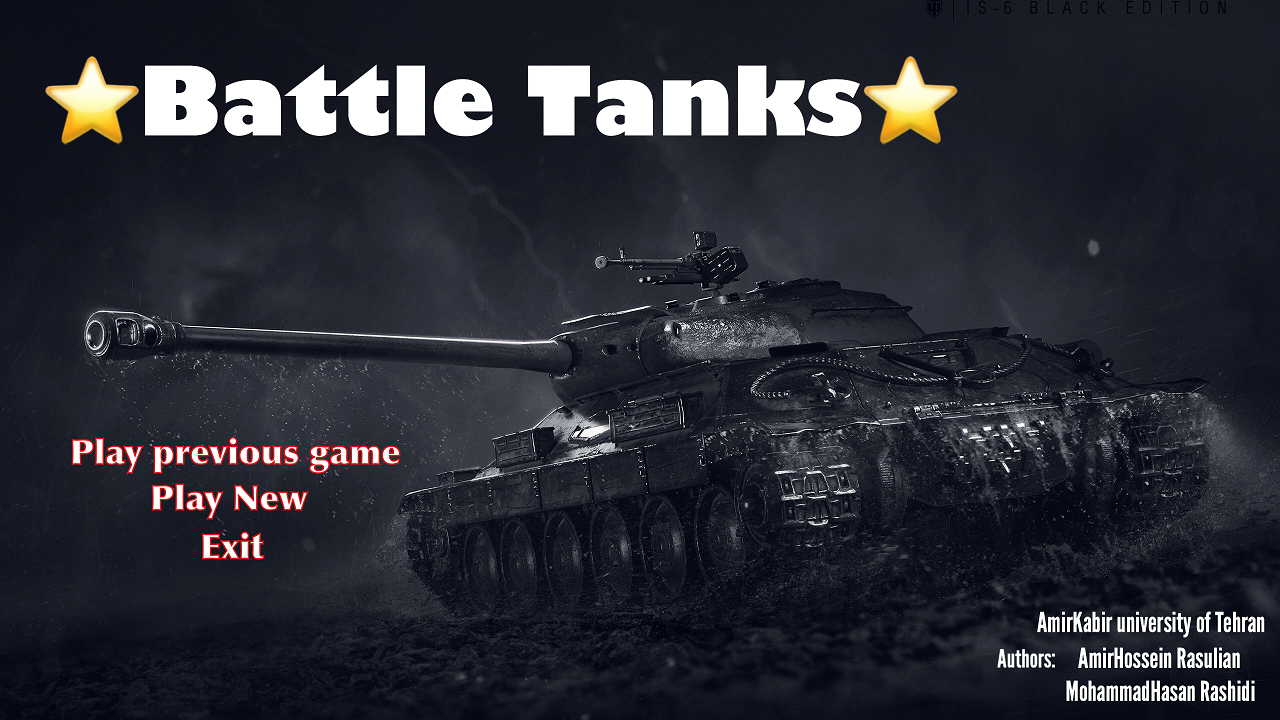
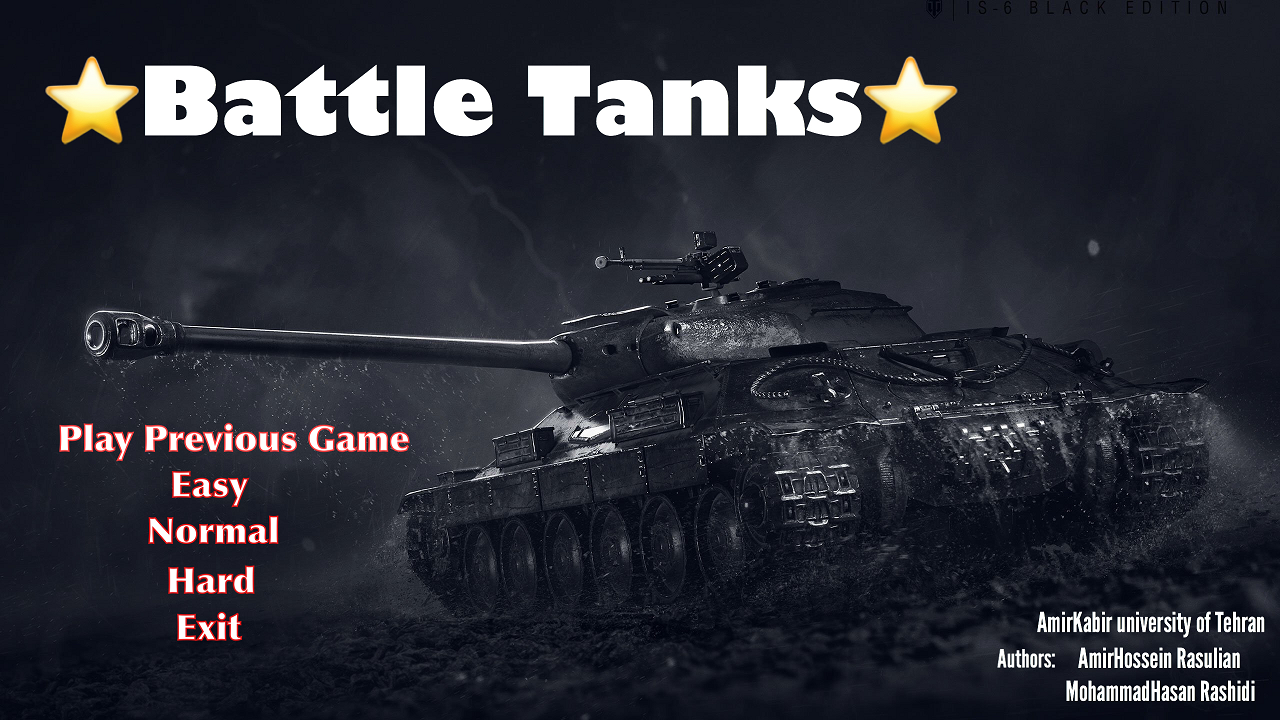
create the moving of tanks and improving the menu

Changed region(s): [[0.0312, 0.5806, 0.3125, 0.825], [0.125, 0.8556, 0.1875, 0.9167]]

diff --git a/src/GameState.java b/src/GameState.java
@@ -44,8 +44,7 @@ public class GameState {
     private AffineTransform affineTransform;
 
     private boolean menuSoundFinished;
-
-    private static ArrayList<Rectangle> obstacles = new ArrayList<Rectangle>();
+    private boolean enemysAreCreated ;
 
     public GameState() {
         //
@@ -53,40 +52,9 @@ public class GameState {
         //
         //create myTank
         myTank = new MyTank(100, 100, 0);
+        enemysAreCreated = false;
         //create enemy Tanks
         enemyTanks = new ArrayList<>();
-        enemyTanks.add(new EnemyFixedTank(1100, 0, 0, myTank.getObstacleLocation()));
-        enemyTanks.add(new EnemyFixedTank(3620, 300, 0, myTank.getObstacleLocation()));
-//        enemyTanks.add(new EnemyFixedTank(1000, 1040, 0, myTank.getObstacleLocation()));
-        enemyTanks.add(new EnemyFixedTank(150, 1550, 0, myTank.getObstacleLocation()));
-        enemyTanks.add(new EnemyFixedTank(2700, 1850, 0, myTank.getObstacleLocation()));
-        enemyTanks.add(new EnemyMovingTank(500, 100, 0, myTank.getObstacleLocation()));
-        enemyTanks.add(new EnemyMovingTank(2000, 400, 0, myTank.getObstacleLocation()));
-        enemyTanks.add(new EnemyMovingTank(3000, 100, 0, myTank.getObstacleLocation()));
-//        enemyTanks.add(new EnemyMovingTank(2800, 1200, 0, myTank.getObstacleLocation()));
-//        enemyTanks.add(new EnemyMovingTank(400, 1200, 0, myTank.getObstacleLocation()));
-        enemyTanks.add(new EnemyMovingTank(1000, 1800, 0, myTank.getObstacleLocation()));
-//        enemyTanks.add(new EnemyMovingTank(3000, 1800, 0, myTank.getObstacleLocation()));
-        enemyTanks.add(new EnemyMovingTank2(800, 500, 0, myTank.getObstacleLocation()));
-//        enemyTanks.add(new EnemyMovingTank2(3400, 1200, 0, myTank.getObstacleLocation()));
-//        enemyTanks.add(new EnemyMovingTank2(2200, 1000, 0, myTank.getObstacleLocation()));
-        enemyTanks.add(new EnemyMovingTank2(800, 1600, 0, myTank.getObstacleLocation()));
-//        enemyTanks.add(new EnemyMovingTank2(1400, 1700, 0, myTank.getObstacleLocation()));
-//        enemyTanks.add(new EnemyMovingTank2(1700, 1900, 0, myTank.getObstacleLocation()));
-        enemyTanks.add(new EnemyMovingTank3(1500, 500, 0, myTank.getObstacleLocation()));
-//        enemyTanks.add(new EnemyMovingTank3(2700, 500, 0, myTank.getObstacleLocation()));
-//        enemyTanks.add(new EnemyMovingTank3(1500, 1200, 0, myTank.getObstacleLocation()));
-        enemyTanks.add(new EnemyMovingTank3(1400, 900, 0, myTank.getObstacleLocation()));
-//        enemyTanks.add(new EnemyMovingTank3(300, 1000, 0, myTank.getObstacleLocation()));
-//        enemyTanks.add(new EnemyMovingTank3(1700, 2000, 0, myTank.getObstacleLocation()));
-        enemyTanks.add(new EnemyMovingTank3(2300, 1600, 0, myTank.getObstacleLocation()));
-//        enemyTanks.add(new EnemyMovingTank3(3200, 1600, 0, myTank.getObstacleLocation()));
-
-        //add enemy tanks to obstacle
-        for (EnemyTank enemyTank :
-                enemyTanks) {
-            GameFrame.obstacles.add(enemyTank);
-        }
         //
         menuIsFinished = false;
         savingIsAvailable = false;
@@ -142,19 +110,19 @@ public class GameState {
                 menuKeyUP = false;
             }
             if (menuKeyDOWN) {
-                if (menuChooserPlace < 3) {
+                if (menuChooserPlace < 5) {
                     SoundPlayer.playSound("select");
                     menuChooserPlace++;
                 }
                 menuKeyDOWN = false;
             }
-            if (menuKeyENTER && menuChooserPlace == 2) {
+            if (menuKeyENTER && (menuChooserPlace == 2 || menuChooserPlace == 3 || menuChooserPlace == 4)) {
                 SoundPlayer.playSound("agree");
                 menuIsFinished = true;
                 SoundPlayer.getStartUp().close();
                 SoundPlayer.playSound("gameSound1");
             }
-            if (menuKeyENTER && menuChooserPlace == 3) {
+            if (menuKeyENTER && menuChooserPlace == 5) {
                 SoundPlayer.playSound("agree");
                 System.exit(0);
             }
@@ -162,11 +130,55 @@ public class GameState {
             if (menuChooserPlace == 1)
                 menuYPosition = 440;
             if (menuChooserPlace == 2)
-                menuYPosition = 485;
+                menuYPosition = 470;
             if (menuChooserPlace == 3)
-                menuYPosition = 530;
+                menuYPosition = 515;
+            if (menuChooserPlace == 4)
+                menuYPosition = 560 ;
+            if (menuChooserPlace == 5)
+                menuYPosition = 605 ;
         } else {
 
+            if (!enemysAreCreated){
+                enemyTanks.add(new EnemyFixedTank(1100, 0, 0, myTank.getObstacleLocation()));
+                enemyTanks.add(new EnemyFixedTank(3620, 300, 0, myTank.getObstacleLocation()));
+                enemyTanks.add(new EnemyFixedTank(2700, 1850, 0, myTank.getObstacleLocation()));
+                enemyTanks.add(new EnemyMovingTank(500, 100, 0, myTank.getObstacleLocation()));
+                enemyTanks.add(new EnemyMovingTank(3000, 100, 0, myTank.getObstacleLocation()));
+                enemyTanks.add(new EnemyMovingTank(400, 1200, 0, myTank.getObstacleLocation()));
+                enemyTanks.add(new EnemyMovingTank(3000, 1800, 0, myTank.getObstacleLocation()));
+                enemyTanks.add(new EnemyMovingTank2(3400, 1200, 0, myTank.getObstacleLocation()));
+                enemyTanks.add(new EnemyMovingTank2(800, 1600, 0, myTank.getObstacleLocation()));
+                enemyTanks.add(new EnemyMovingTank2(1400, 1700, 0, myTank.getObstacleLocation()));
+                enemyTanks.add(new EnemyMovingTank3(1500, 500, 0, myTank.getObstacleLocation()));
+                enemyTanks.add(new EnemyMovingTank3(1400, 900, 0, myTank.getObstacleLocation()));
+                enemyTanks.add(new EnemyMovingTank3(1700, 2000, 0, myTank.getObstacleLocation()));
+                enemyTanks.add(new EnemyMovingTank3(3200, 1600, 0, myTank.getObstacleLocation()));
+                if (menuChooserPlace >= 3)
+                {
+                    enemyTanks.add(new EnemyFixedTank(1000, 1040, 0, myTank.getObstacleLocation()));
+                    enemyTanks.add(new EnemyMovingTank(2000, 400, 0, myTank.getObstacleLocation()));
+                    enemyTanks.add(new EnemyMovingTank(2800, 1200, 0, myTank.getObstacleLocation()));
+                    enemyTanks.add(new EnemyMovingTank2(2200, 1000, 0, myTank.getObstacleLocation()));
+                    enemyTanks.add(new EnemyMovingTank3(2700, 500, 0, myTank.getObstacleLocation()));
+                    enemyTanks.add(new EnemyMovingTank3(1500, 1200, 0, myTank.getObstacleLocation()));
+                }
+                if (menuChooserPlace == 4 ){
+                    enemyTanks.add(new EnemyFixedTank(150, 1550, 0, myTank.getObstacleLocation()));
+                    enemyTanks.add(new EnemyMovingTank(1000, 1800, 0, myTank.getObstacleLocation()));
+                    enemyTanks.add(new EnemyMovingTank2(800, 500, 0, myTank.getObstacleLocation()));
+                    enemyTanks.add(new EnemyMovingTank2(1900, 1600, 0, myTank.getObstacleLocation()));
+                    enemyTanks.add(new EnemyMovingTank3(300, 1000, 0, myTank.getObstacleLocation()));
+                    enemyTanks.add(new EnemyMovingTank3(2300, 1600, 0, myTank.getObstacleLocation()));
+                }
+                //add enemy tanks to obstacle
+                for (EnemyTank enemyTank :
+                        enemyTanks) {
+                    GameFrame.obstacles.add(enemyTank);
+                }
+                //
+                enemysAreCreated = true;
+            }
             if (keyUP && allowToMove("up", myTank)) {
                 myTank.getObstacleLocation().y -= 8;
             }
@@ -532,7 +544,8 @@ public class GameState {
         tank.obstacleRec.setLocation(locX + 5, locY + 5);
         int coord;
         for (Obstacle obstacle : GameFrame.obstacles) {
-
+            if (obstacle.equals(tank))
+                continue;
             if (myTank.obstacleRec.intersects(obstacle.obstacleRec) && (obstacle.getObstacleName().equals("repairFood") || obstacle.getObstacleName().equals("cannonFood") || obstacle.getObstacleName().equals("mashinGunFood"))) {
                 coord = obstacle.obstacleRec.y / 91 * 46 + obstacle.obstacleRec.x / 85;
                 GameFrame.obstacles.remove(obstacle);

diff --git a/src/EnemyMovingTank3.java b/src/EnemyMovingTank3.java
@@ -62,24 +62,32 @@ public class EnemyMovingTank3 extends EnemyTank {
         }
     }
     private void updateTankLocation (){
-        if (directionChoosed <= 10)
+        if (directionChoosed <= 15)
         {
             switch (direction){
                 case 'R' :
                     if (GameState.allowToMove("right" , this))
                         getObstacleLocation().x += 5 ;
+                    else
+                        directionChoosed = 0 ;
                     break;
                 case 'L' :
                     if (GameState.allowToMove("left" , this))
                         getObstacleLocation().x -= 4 ;
+                    else
+                        directionChoosed = 0 ;
                     break;
                 case 'U' :
                     if (GameState.allowToMove("up" , this))
                         getObstacleLocation().y += 4 ;
+                    else
+                        directionChoosed = 0 ;
                     break;
                 case 'D' :
                     if (GameState.allowToMove("down" , this))
                         getObstacleLocation().y -= 4 ;
+                    else
+                        directionChoosed = 0 ;
                     break;
             }
             directionChoosed ++ ;

diff --git a/src/EnemyMovingTank.java b/src/EnemyMovingTank.java
@@ -62,24 +62,31 @@ public class EnemyMovingTank extends EnemyTank {
         }
     }
     private void updateTankLocation (){
-        if (directionChoosed <= 7)
+        if (directionChoosed <= 10)
         {
             switch (direction){
                 case 'R' :
                     if (GameState.allowToMove("right" , this))
                         getObstacleLocation().x += 4 ;
+                    else directionChoosed = 0 ;
                     break;
                 case 'L' :
                     if (GameState.allowToMove("left" , this))
                         getObstacleLocation().x -= 4 ;
+                    else
+                        directionChoosed = 0 ;
                     break;
                 case 'U' :
                     if (GameState.allowToMove("up" , this))
                         getObstacleLocation().y += 4 ;
+                    else
+                        directionChoosed = 0 ;
                     break;
                 case 'D' :
                     if (GameState.allowToMove("down" , this))
                         getObstacleLocation().y -= 4 ;
+                    else
+                        directionChoosed = 0 ;
                     break;
             }
             directionChoosed ++ ;

diff --git a/src/EnemyMovingTank2.java b/src/EnemyMovingTank2.java
@@ -65,15 +65,19 @@ public class EnemyMovingTank2 extends EnemyTank {
     }
 
     private void updateTankLocation() {
-        if (directionChoosed <= 4) {
+        if (directionChoosed <= 7) {
             switch (direction) {
                 case 'R':
                     if (GameState.allowToMove("right" , this))
                         getObstacleLocation().x += 3;
+                    else
+                        directionChoosed = 0 ;
                     break;
                 case 'L':
                     if (GameState.allowToMove("left" , this))
                         getObstacleLocation().x -= 3;
+                    else
+                        directionChoosed = 0 ;
                     break;
             }
             directionChoosed++;

diff --git a/src/GameFrame.java b/src/GameFrame.java
@@ -176,7 +176,7 @@ public class GameFrame extends JFrame {
             g2d.drawImage(menuImage, 0, 0, null);
             //Draw the chooser menu item
             g2d.setColor(Color.red);
-            g2d.fillOval(30, state.menuYPosition, 30, 30);
+            g2d.fillOval(20, state.menuYPosition, 30, 30);
 
         } else {
             if (state.getMyTank().getObstacleLocation().y < 720) {
